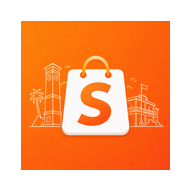
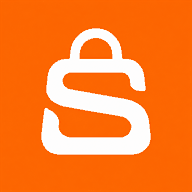
Apply new SwiftShop S-bag customer branding

diff --git a/app-design.js b/app-design.js
@@ -45,14 +45,14 @@
     document.documentElement.classList.add('swift-design');
     const login=document.getElementById('loginBox');
     if(login){
-      const logo=el('img','sd-login-logo');logo.src='apple-touch-icon.png';logo.alt='SwiftShop';login.prepend(logo);
+      const logo=el('img','sd-login-logo');logo.src='apple-touch-icon.png?v=brand20261029';logo.alt='SwiftShop';login.prepend(logo);
       for(const [id,text,autocomplete] of [['userName','Full name','name'],['userPhone','Phone number','tel']]){
         const input=document.getElementById(id);if(!input)continue;
         const label=el('label','sd-login-label');label.htmlFor=id;label.textContent=text;input.before(label);input.setAttribute('autocomplete',autocomplete);
       }
     }
     const header=app.querySelector('.header'),title=document.getElementById('title');
-    if(title){title.textContent='SwiftShop';const brand=el('div','sd-brand');const logo=el('img','sd-brand-mark');logo.src='favicon.png';logo.alt='';title.before(brand);brand.append(logo,title);}
+    if(title){title.textContent='SwiftShop';const brand=el('div','sd-brand');const logo=el('img','sd-brand-mark');logo.src='favicon.png?v=brand20261029';logo.alt='';title.before(brand);brand.append(logo,title);}
     const slogan=header?.querySelector(':scope > p');if(slogan){slogan.textContent='';const greeting=el('strong','sd-home-greeting');greeting.textContent='What’s the plan?';const detail=el('span','sd-home-subtitle');detail.textContent='Local favourites. Everyday essentials. Your next ride.';slogan.append(greeting,detail);}
     const balanceValue=document.getElementById('userBalance'),balance=balanceValue?.parentElement;
     if(header&&balance&&balanceValue){

diff --git a/customer-push-sw.js b/customer-push-sw.js
@@ -1,3 +1,3 @@
-self.addEventListener('push',event=>{let payload;try{payload=event.data.json();}catch{return;}event.waitUntil((async()=>{await self.registration.showNotification(payload.title||'SWIFTSHOP',{body:payload.body||'You have a SwiftShop update.',icon:'/apple-touch-icon.png',badge:'/favicon.png',tag:payload.tag,data:payload.data||{}});for(const client of await self.clients.matchAll({type:'window',includeUncontrolled:true}))client.postMessage({type:'customer-push',data:payload.data||{}});})());});
+self.addEventListener('push',event=>{let payload;try{payload=event.data.json();}catch{return;}event.waitUntil((async()=>{await self.registration.showNotification(payload.title||'SWIFTSHOP',{body:payload.body||'You have a SwiftShop update.',icon:'/apple-touch-icon.png?v=brand20261029',badge:'/favicon.png?v=brand20261029',tag:payload.tag,data:payload.data||{}});for(const client of await self.clients.matchAll({type:'window',includeUncontrolled:true}))client.postMessage({type:'customer-push',data:payload.data||{}});})());});
 self.addEventListener('notificationclick',event=>{event.notification.close();const data=event.notification.data||{};event.waitUntil((async()=>{for(const client of await self.clients.matchAll({type:'window',includeUncontrolled:true})){if(new URL(client.url).origin===self.location.origin){await client.focus();client.postMessage({type:'customer-push-open',data});return;}}await self.clients.openWindow('/#push='+encodeURIComponent(JSON.stringify(data)));})());});
 self.addEventListener('install',()=>self.skipWaiting());self.addEventListener('activate',event=>event.waitUntil(self.clients.claim()));
